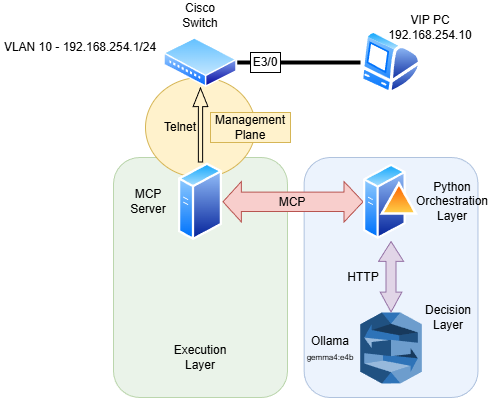
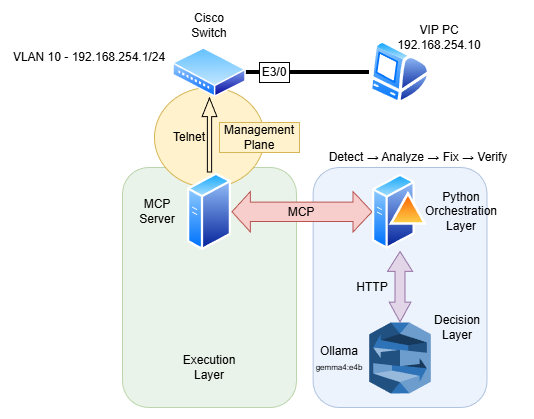
updating README.md

diff --git a/README.md b/README.md
@@ -50,16 +50,6 @@ This **IS**:
 
 The system utilizes an MCP server to provide the LLM with specific "tools" (via Netmiko) to interact with Cisco switches, while Ollama handles the reasoning logic locally.
 
-```
-┌─────────────┐     ┌─────────────┐     ┌─────────────────┐     ┌──────────────┐
-│  Ollama LLM │◄───►│   Agent     │◄───►│  MCP Server     │◄───►│ Cisco Switch │
-│  (Gemma4)   │     │  (Reasoner) │     │  (FastMCP +     │     │ (GNS3 Lab)   │
-│             │     │             │     │   Netmiko)      │     │              │
-└─────────────┘     └─────────────┘     └─────────────────┘     └──────────────┘
-                          │
-                    Detect → Analyze → Fix → Verify
-```
-
 ---
 
 ## 🔄 How It Works